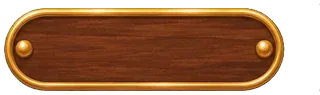
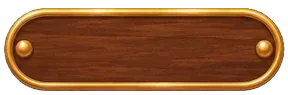
昼のハートで夜の味パワー+5%ずつ（H-029・舞台に ♥×N）・おなかの表を1.5倍（成長は昼のハートで）・木の札の右の透けを切った（ui-label）・まとめのおもてなしの行を1行に・ボットにハート
Claude-Session: https://claude.ai/code/session_015wi4GhVE7CXvLVTXs2tvYi

diff --git a/src/js/night.js b/src/js/night.js
@@ -320,6 +320,10 @@ function growStep(c, t, spd = 0) {
   return { from, to: c.cook, melt, cid: c.cid };
 }
 /* 1ラウンドの計算（画面より先に、ぜんぶ決める）。board と heat は finishRound で N に入れる */
+/* 昼のハート（11/19 H-029 しょーくん「昼パートをしっかりやらないと夜の火力が伸びない連動」・えらぶ質問で「ハート1こにつき+5%」）：その日の昼のハート（仲間の来店の1こもふくむ）で、夜の味パワーが上がる */
+const HEART_UP = 0.05;
+const dayHearts = () => Math.max(0, (S.today && S.today.hearts) || 0);
+const heartMul = () => 1 + HEART_UP * dayHearts();
 function resolveRound() {
   const F = N.field ? FIELDS[N.field] : null, ev = [];
   const board = N.board.map(c => c && Object.assign({ cid: c.cid, cook: c.cook }, c.ice ? { ice: 1 } : {}, c.plus ? { plus: c.plus } : {}));
@@ -354,6 +358,7 @@ function resolveRound() {
   const doneN = () => idx.filter(j => board[j] && cardDef(board[j].cid).grow && board[j].cook >= SIZE_MAX).length;   // 完成した大作の数（そのときの）
   const extra = Array(SLOTS).fill(0);
   let pend = 1, total = 0, rally = 0, pendEv = [], kone = N.kone || 0, panRally = 0;
+  const HM = heartMul();   // 昼のハートで味パワーアップ（11/19 H-029）
   /* みなも②（11/19）：chain＝れんさ（キャンディが続けて発動した数・素材や道具が発動すると0）・candyMul＝いちばんドロップの「キャンディぜんぶ×」 */
   let chain = (F && F.chain0) || 0, candyMul = 1;
   const petitN = (F && F.petit) || 0, isCandy = j => !!board[j] && cardDef(board[j].cid).candy;
@@ -456,7 +461,7 @@ function resolveRound() {
           for (const p of pendEv) p.out.push({ k: 'next', to: [i], v: p.next });
         }
         pend = 1; pendEv = [];
-        dmg = Math.min(DMG_CAP, Math.floor(base));
+        dmg = Math.min(DMG_CAP, Math.floor(base * HM));
         e.base = fx.dmg * sm; e.parts = parts;
       }
       if (fx.next) { pend *= fx.next; e.next = fx.next; pendEv.push(e); }
@@ -464,7 +469,7 @@ function resolveRound() {
       const pet = [];   // はじけキャンディ：ちいさなキャンディが1こずつ飛ぶ（れんさ+1ずつ・冷えるほど強い・いちばんドロップも効く）
       if (fx.petit) {
         const n = fx.petit + petitN, pm = (COLD_MUL[heat] || 1) * candyMul;
-        for (let k = 0; k < n; k++) { chain++; const pd = Math.min(DMG_CAP, Math.floor(PETIT_DMG * sm * pm)); total += pd; pet.push({ type: 'petit', i, cid: c.cid, k, n, dmg: pd, chain }); }
+        for (let k = 0; k < n; k++) { chain++; const pd = Math.min(DMG_CAP, Math.floor(PETIT_DMG * sm * pm * HM)); total += pd; pet.push({ type: 'petit', i, cid: c.cid, k, n, dmg: pd, chain }); }
       }
       if (d.cat === 'cake' && dmg > 0 && F && F.decoHits) {   // デコレーション台：そのケーキの1割が5連撃（熟した実の★3は10連撃）・11/19 しょーくん
         const n = F.decoHits[fx.fruitCake ? 1 : 0], pd = Math.max(1, Math.floor(dmg * F.decoRate));

diff --git a/src/style.css b/src/style.css
@@ -797,8 +797,8 @@ button.tab.on:disabled::before{filter:grayscale(.85) brightness(.95)}
 .tiles[data-z="4"] .tf.tf{background-image:var(--ui-flame-mid);filter:brightness(1.15)}
 .tiles[data-z="4"] .tf.tf.x{background-image:var(--ui-flame-wide)}
 /* ==== UI の絵 その8（11/18 夜 art-irai ui-misc1）==== */
-/* こげ茶の木の札（ui-label・320×95・左右のはし約48が角）：夜の舞台の上の札・ショップの題とコイン・朝昼の札・お財布 */
-.ov-top>span,.sh-ttl.sh-ttl,.sh-coin.sh-coin,.mo-hint.mo-hint,.md-tip.md-tip,.d-tip.d-tip,.m-wallet.m-wallet{background:none;box-shadow:none;border:1px solid transparent;border-radius:0;border-image:var(--ui-label) 49% 15% fill/50% 1.1em stretch}
+/* こげ茶の木の札（ui-label・288×95〔11/19 右の透けた30pxを切った・H-029〕・左右のはし約48が角）：夜の舞台の上の札・ショップの題とコイン・朝昼の札・お財布 */
+.ov-top>span,.sh-ttl.sh-ttl,.sh-coin.sh-coin,.mo-hint.mo-hint,.md-tip.md-tip,.d-tip.d-tip,.m-wallet.m-wallet{background:none;box-shadow:none;border:1px solid transparent;border-radius:0;border-image:var(--ui-label) 49% 16.5% fill/50% 1.1em stretch}
 .m-wallet.m-wallet::before,.mz-wallet.mz-wallet::before{content:"";display:inline-block;width:1.5em;height:1.35em;margin:-3px 4px -3px -3px;vertical-align:middle;background:var(--ui-purse) center/contain no-repeat}
 /* クリーム色の紙の行（ui-strip・480×169・四すみに真ちゅうのびょう）：雑貨屋の品物・ドラッグの札・トースト */
 .ms-good.ms-good,.dragtip.dragtip,#toast{background:none;box-shadow:none;border:2px solid transparent;border-radius:0;border-image:var(--ui-strip) 30 fill/9px stretch}

diff --git a/src/js/night-ui.js b/src/js/night-ui.js
@@ -495,6 +495,7 @@ function renderNight() {
       <img class="mon${monIsArt(mon.id) ? ' hi' : ''}${N.stage === 'end' ? ' flee' : ''}" id="mon" data-mid="${mon.id}" data-idle="${monIdle(mon.id)}" src="${((after && happy) || (N.stage === 'roundEnd' && N.last && N.last.ok)) && ART[`mon-${mon.id}-happy`] || monURL(mon.id)}" alt="${esc(mon.name)}">
       ${embersHTML()}<i class="smoke" id="smoke"></i>${decoHTML(after ? (happy ? 'win' : 'battle') : (N.stage === 'shop' || N.stage === 'arrive' || N.stage === 'pick') && !fighting ? 'shop' : 'battle')}<div id="floats"></div>
       <div class="ov-top"><span>ラウンド <b>${Math.min(N.round, ROUNDS)}</b>/${ROUNDS}${F ? `　<em>${F.name}</em>` : ''}</span><span class="score">味パワー <b id="score">${fmt(N.score)}</b></span></div>
+      <span class="ov-hm" aria-label="昼のハート ${dayHearts()}こ">昼のハート <i>♥</i>×${dayHearts()} <b>味パワー×${Math.round(heartMul() * 100) / 100}</b></span>
       <div class="ov-heat"><span class="heat-label" id="heatLabel"></span><div class="heat-bar" id="heatBar">${heatCells()}</div>${koneBadge()}${jamBadge()}</div>
       ${N.stage === 'shop' && !fighting ? shopHTML() : ''}${N.stage === 'pick' ? pickHTML() : ''}</div>
     <div class="quota"><div class="qwrap"><div class="qbar"><i id="qfill" style="width:${Math.min(100, lastRun / q * 100)}%"></i></div><b class="qmk m1" style="left:50%"><i></i>+1</b><b class="qmk m3" style="left:100%"><i></i>+3</b></div><span id="qtext">${N.stage === 'roundEnd' ? fmt(lastRun) + ' / ' : ''}おなか ${fmt(q)}</span></div>

diff --git a/src/style-talk.css b/src/style-talk.css
@@ -97,3 +97,5 @@
 /* 日記の紙：ふち（とじ穴・ふちのなみ）は絵、まんなかの線は字の行にそろえてコードで。マスキングテープは別の絵 ui-diary-tape を左上に */
 .diary{border:22px solid transparent;border-width:22px 8px 9px 20px;border-radius:0;border-image:var(--ui-diary) 52 19 22 48/22px 8px 9px 20px round;background:repeating-linear-gradient(transparent 0 31px,rgba(150,110,80,.3) 31px 32px) 0 46px/100% calc(100% - 46px) no-repeat,linear-gradient(#fdebcb,#fae4c2);background-clip:padding-box;box-shadow:none;filter:drop-shadow(0 4px 0 rgba(0,0,0,.3));overflow:visible;padding:14px 12px 4px 10px}
 .diary::before{content:"";position:absolute;left:-8px;top:-21px;width:57px;aspect-ratio:134/75;background:var(--ui-diary-tape) left top/contain no-repeat;pointer-events:none;z-index:1}
+/* 1日のまとめの「おもてなし」の行：モンスターの名前と満足を1行に（11/19 H-029 の5） */
+.sum-om{white-space:nowrap;font-size:min(13px,3.4vw);letter-spacing:-.02em}

diff --git a/src/data/world.js b/src/data/world.js
@@ -44,7 +44,7 @@ const moodOf = (score, belly) => score >= belly ? 3 : score >= belly * 0.5 ? 2 :
 const ROUNDS = 9;
 /* おなか（11/19 しょーくん「引きが良ければ2ラウンド目から満タンを狙える・ビルドを組めないと最後まで満たせない」「日がたっても変動なし（キャラに成長がないので）」）。
    ボット（tools/bot.mjs）の火力クッキー・大作・くだものケーキで決めた：r1〜2 は運のいい4人に1人が満タン・後半はちゃんと組めた夜（まんなかくらい）で満タン・組めないと半分にも届かない */
-const QUOTA = [300, 1000, 2500, 5000, 10000, 18000, 28000, 42000, 60000];
+const QUOTA = [450, 1500, 3800, 7500, 15000, 27000, 42000, 63000, 90000];
 const quota = (r, day) => QUOTA[Math.max(0, Math.min(QUOTA.length - 1, r - 1))];
 function nightHP(day) { let s = 0; for (let r = 1; r <= ROUNDS; r++) s += quota(r, day); return s; }
 

diff --git a/src/style-battle.css b/src/style-battle.css
@@ -419,3 +419,7 @@ body[data-chef="wakaba"] .fx-hit::after{border-color:#fbffe0}
 .quota.half .qmk.m1{animation:qmkpop .6s cubic-bezier(.3,1.6,.5,1)}
 @keyframes qmkpop{40%{transform:scale(1.7)}}
 .result.half .r-msg{color:#ffd27a}
+/* 昼のハートで味パワーアップ（11/19 H-029）：舞台の上・味パワーの札の下に小さく */
+.night .ov-hm{position:absolute;right:10px;top:calc(max(12px,5.5%) + 30px);z-index:6;font-size:10px;font-weight:700;color:#fff3dc;white-space:nowrap;text-shadow:1px 1px 0 #2a170c,-1px 1px 0 #2a170c,0 -1px 0 #2a170c;pointer-events:none}
+.ov-hm i{font-style:normal;color:#ff7a9a}.ov-hm b{color:#ffe08a;font-weight:700}
+.stage:has(.shopov:not(.out)) .ov-hm{display:none}

diff --git a/src/js/flow.js b/src/js/flow.js
@@ -40,7 +40,7 @@ function renderResult() {
       <div class="sum-row"><dl>
         <dt>お昼の売上</dt><dd>${fmt(T.sales)}円</dd>
         <dt>お礼のコイン</dt><dd>${fmt(T.coins)}円</dd>
-        <dt>おもてなし</dt><dd>${mon ? esc(mon.name) + (mood ? '　' + mood.name : '') : 'なし'}</dd>
+        <dt>おもてなし</dt><dd class="sum-om">${mon ? esc(mon.name) + (mood ? '　' + mood.name : '') : 'なし'}</dd>
         <dt>もらった素材</dt><dd>${gifts || 'なし'}</dd>
       </dl>${jarHTML()}</div>
       <p class="sum-money">お財布 <b>${fmt(S.money)}</b>円</p>
